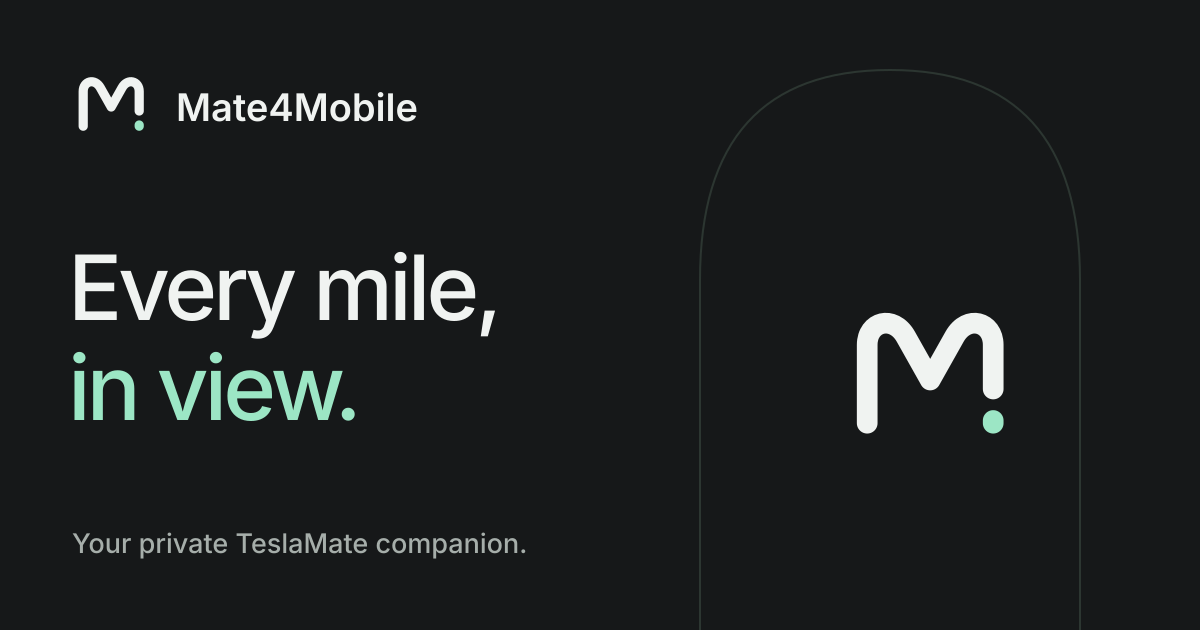
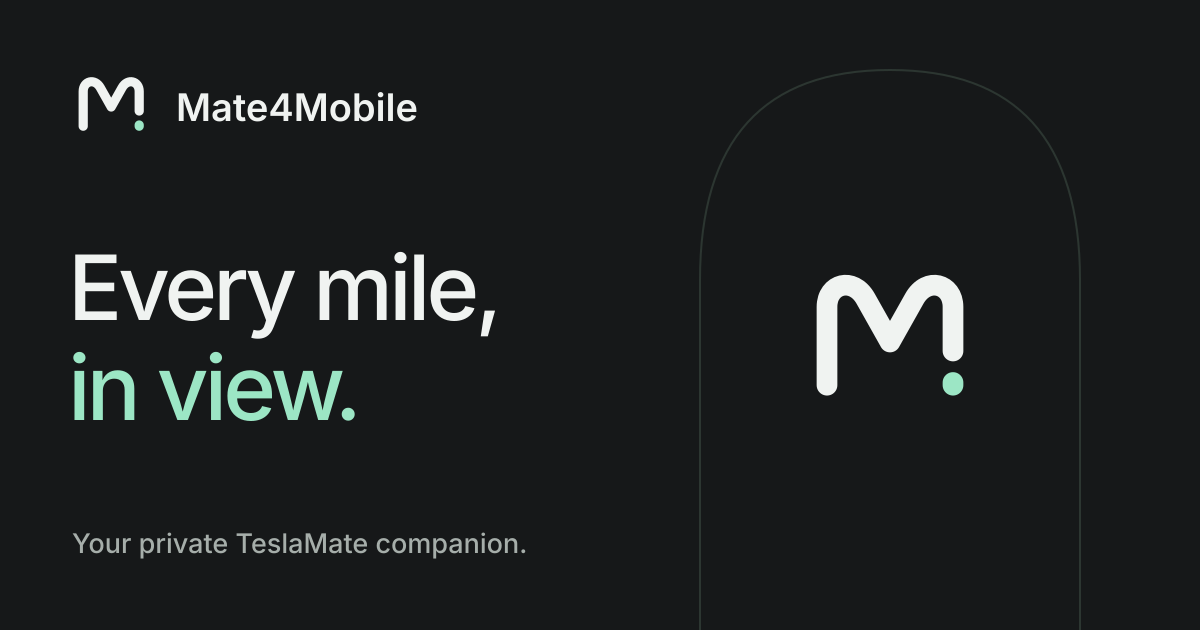
♻ 📝 Polish README layout and fix brand hero

Changed region(s): [[0.6783, 0.4222, 0.8633, 0.6937]]

diff --git a/README.md b/README.md
@@ -1,18 +1,74 @@
-<p align="center"><img src="brand/exports/social-card.png" alt="Mate4Mobile — Every mile, in view." width="100%"></p>
+<div align="center">
 
-<p align="center"><strong>Your private TeslaMate companion.</strong><br>Journeys, charging and battery history—made for your phone.</p>
+<img src="brand/exports/social-card.png" alt="Mate4Mobile — Every mile, in view." width="100%">
 
-<p align="center"><a href="https://itchyparrot53.github.io/mate4mobile/">Website</a> · <a href="https://itchyparrot53.github.io/mate4mobile/demo/">Try the demo</a> · <a href="docs/INSTALL.md">Install</a> · <a href="docs/HTTPS.md">HTTPS & PWA</a> · <a href="brand/README.md">Brand kit</a></p>
+**Your private TeslaMate companion.**<br>
+Journeys, charging and battery history. Made for your phone.
+
+[![Last commit](https://img.shields.io/github/last-commit/itchyparrot53/mate4mobile?style=for-the-badge&color=9ce6c5&labelColor=202223&logo=github&logoColor=white)](https://github.com/itchyparrot53/mate4mobile/commits/main/)
+[![Issues](https://img.shields.io/github/issues/itchyparrot53/mate4mobile?style=for-the-badge&color=9ce6c5&labelColor=202223&logo=github&logoColor=white)](https://github.com/itchyparrot53/mate4mobile/issues)
+[![Stars](https://img.shields.io/github/stars/itchyparrot53/mate4mobile?style=for-the-badge&color=9ce6c5&labelColor=202223&logo=github&logoColor=white)](https://github.com/itchyparrot53/mate4mobile/stargazers)
+
+[![Docker deployment](https://img.shields.io/badge/Docker-Deployment-9ce6c5?style=for-the-badge&labelColor=202223&logo=docker&logoColor=white)](docs/INSTALL.md)
+[![Node.js 22+](https://img.shields.io/badge/Node.js-22%2B-9ce6c5?style=for-the-badge&labelColor=202223&logo=nodedotjs&logoColor=white)](CONTRIBUTING.md)
+[![Code licence: MIT](https://img.shields.io/badge/Code_Licence-MIT-9ce6c5?style=for-the-badge&labelColor=202223)](LICENSE)
+
+[![Website](https://img.shields.io/badge/Website-202223?style=for-the-badge)](https://itchyparrot53.github.io/mate4mobile/)
+[![Try the demo](https://img.shields.io/badge/Try_the_Demo-9ce6c5?style=for-the-badge)](https://itchyparrot53.github.io/mate4mobile/demo/)
+[![Installation guide](https://img.shields.io/badge/Installation_Guide-202223?style=for-the-badge)](docs/INSTALL.md)
+
+[Features](#features) · [Screenshots](#screenshots) · [Getting started](#getting-started) · [FAQ](#faq) · [Documentation](#documentation)
+
+</div>
 
 ---
 
+## ⚡ What is Mate4Mobile?
+
 TeslaMate records the story of your car. **Mate4Mobile makes it easy to read.**
 
-Open it for a quick battery check. Scroll through your day. Follow a journey on the map or see what a charge actually added. A restrained dark interface, large readings and touch-friendly charts keep the useful information close.
+Check the latest recorded battery level, scroll through your day, follow a journey on the map or see what a charge actually added. A restrained dark interface, large readings and touch-friendly charts keep the useful information close on your phone and desktop.
 
-Mate4Mobile is a separate, self-hosted viewer for your existing TeslaMate database. It does not replace TeslaMate, collect telemetry, connect to Tesla’s API or send vehicle commands.
+Mate4Mobile is a **self-hosted, read-only viewer** for your existing TeslaMate database. TeslaMate keeps collecting your data; Mate4Mobile gives it a home on your phone. No Tesla API connection, vehicle commands or additional telemetry collection.
 
-## A better daily view
+---
+
+<a id="screenshots"></a>
+
+## 📱 A dashboard for every day
+
+<p align="center">
+  <img src="docs/images/app-mobile.jpg" alt="Vehicle overview showing the Tesla render, battery level and daily summary with synthetic data" width="280">
+  <img src="docs/images/charging-mobile.jpg" alt="Charging overview with energy trends and location breakdowns using synthetic data" width="280">
+</p>
+
+<p align="center"><strong>A quick check before you leave. A clearer picture when you get back.</strong></p>
+
+<details>
+<summary><strong>🖥 Explore the desktop view</strong></summary>
+
+Follow a recorded journey with a route map and linked speed, power and battery charts.
+
+![Journey map and linked telemetry chart using synthetic data](docs/images/journey-desktop.jpg)
+
+</details>
+
+<details>
+<summary><strong>🌐 Preview the project website</strong></summary>
+
+![Mate4Mobile showcase website](docs/images/website-desktop.jpg)
+
+</details>
+
+*Screenshots and the public demo use invented data. Vehicle renders © Tesla, Inc. and/or their respective owners; used for identification and illustration. See [LEGAL.md](LEGAL.md).*
+
+**[Try the interactive demo →](https://itchyparrot53.github.io/mate4mobile/demo/)** No server, sign-in or vehicle connection needed.
+
+---
+
+<a id="features"></a>
+
+## ✨ Features
 
 | View | What you get |
 | --- | --- |
@@ -23,23 +79,20 @@ Mate4Mobile is a separate, self-hosted viewer for your existing TeslaMate databa
 | **Energy** | Driving totals and clearly labelled battery estimates that build context as your history grows. |
 | **Every screen** | Responsive desktop layouts, mobile sheets, keyboard navigation, reduced-motion support and an installable PWA shell. |
 
-<p align="center"><img src="docs/images/app-mobile.jpg" alt="Mate4Mobile vehicle overview with synthetic data" width="280"> <img src="docs/images/charging-mobile.jpg" alt="Mate4Mobile charging screen with synthetic data" width="280"></p>
+---
 
-*Screenshots and the public demo use invented data. Vehicle renders © Tesla, Inc. and/or their respective owners; used for identification and illustration. See [LEGAL.md](LEGAL.md).*
+<a id="getting-started"></a>
 
-<details><summary><strong>A closer look on desktop</strong></summary>
+## 🚀 Getting started
 
-![Journey map and linked telemetry chart using synthetic data](docs/images/journey-desktop.jpg)
+### Before you start
 
-</details>
+- An existing **TeslaMate installation with PostgreSQL**.
+- A **Linux Docker host with Compose v2**, plus `git`, `bash` and `openssl`.
+- Access to the database owner for one-time reader setup.
+- A **private HTTPS address** for secure sign-in and Home Screen installation.
 
-## Start with the demo
-
-**[Explore Mate4Mobile](https://itchyparrot53.github.io/mate4mobile/demo/)** without a server, sign-in or vehicle connection. It runs the app interface against synthetic readings. Nothing in the demo can reach your car or database.
-
-## Install alongside TeslaMate
-
-You need an existing TeslaMate PostgreSQL database, a Linux Docker host with Compose v2, `git`, `bash` and `openssl`, and a private HTTPS address for phone installation.
+### Docker setup
 
 ```bash
 git clone https://github.com/itchyparrot53/mate4mobile.git
@@ -53,7 +106,8 @@ The app initially listens on **host loopback port 8099**. Add your HTTPS reverse
 
 **[Complete installation guide](docs/INSTALL.md)** · **[HTTPS and Home Screen setup](docs/HTTPS.md)** · **[Native Node/systemd installation](docs/NATIVE.md)**
 
-Already know your container names?
+<details>
+<summary><strong>⚙ Setup with explicit container and network names</strong></summary>
 
 ```bash
 bash scripts/setup.sh \
@@ -66,7 +120,21 @@ bash scripts/setup.sh \
 
 Replace the example container and network names with yours. Setup refuses to overwrite an existing `.env` or take over an existing database role. Existing installations should use the [upgrade guide](docs/OPERATIONS.md).
 
-## How it fits
+</details>
+
+<details>
+<summary><strong>🛠 Install without Docker</strong></summary>
+
+Use the [native Node/systemd guide](docs/NATIVE.md) for an existing Linux host. It covers a dedicated app user, restricted database credentials, the service unit and a private HTTPS reverse proxy.
+
+</details>
+
+> **Already installed?** Follow the [upgrade guide](docs/OPERATIONS.md). The setup script is for a new installation and deliberately refuses to overwrite an existing `.env` or database role.
+
+
+---
+
+## 🔗 How it fits
 
 ```mermaid
 flowchart LR
@@ -79,7 +147,9 @@ flowchart LR
 
 **GitHub Pages hosts the showcase and synthetic demo only.** Your private dashboard runs on your own server; no GitHub workflow connects to your database.
 
-## Private by design, precise about the data
+---
+
+## 🔒 Privacy & data
 
 - The installer grants `SELECT` on ten named telemetry/configuration tables. It does **not** grant access to TeslaMate’s `tokens` table, all tables or future tables.
 - The backend uses read-only database transactions. The doctor checks effective grants, including privileges inherited through `PUBLIC`.
@@ -90,13 +160,84 @@ flowchart LR
 
 Read the [security model](SECURITY.md), [data guide](docs/DATA.md) and [architecture](docs/ARCHITECTURE.md).
 
-## Make it yours
+---
+
+## 🎨 Make it yours
 
 Choose a vehicle family, generation and paint in Preferences. Seven model/generation presets and 39 colour choices use the same Tesla renders as the app. Year ranges and representative trims are guides, not exact VIN configurations. Preferences and distance units stay on the device.
 
 The [brand kit](brand/README.md) includes SVG masters, light/dark wordmarks, a compact M4M lockup, favicons, maskable PWA icons, Apple touch icons, social artwork, design tokens and usage guidance. The [visual brand board](https://itchyparrot53.github.io/mate4mobile/brand/) brings it together.
 
-## Develop locally
+---
+
+<a id="faq"></a>
+
+## 💬 Frequently asked questions
+
+<details>
+<summary><strong>Does this replace TeslaMate or wake the car?</strong></summary>
+
+No. TeslaMate remains your logger. Mate4Mobile reads its PostgreSQL records and does not call Tesla’s API or send commands to the car. Readings are as recent as the data TeslaMate has recorded.
+
+</details>
+
+<details>
+<summary><strong>Does GitHub Pages host my private dashboard?</strong></summary>
+
+No. Pages hosts the public website and a demo with synthetic data. Your dashboard runs on your own server, connected to your database. Publishing this repository does not upload your driving history.
+
+</details>
+
+<details>
+<summary><strong>How do I install it on my phone?</strong></summary>
+
+Open your private HTTPS address in Safari on iPhone or a supported browser on Android, sign in and use Add to Home Screen or Install app. Your phone must trust the HTTPS certificate. Follow the [HTTPS and PWA guide](docs/HTTPS.md) for the full setup.
+
+</details>
+
+<details>
+<summary><strong>Can I choose my model and paint colour?</strong></summary>
+
+Yes. Preferences includes seven model/generation presets and 39 colour choices. These are representative vehicle renders, not exact VIN configurations. Your selection stays on your device.
+
+</details>
+
+<details>
+<summary><strong>Does it work offline?</strong></summary>
+
+The installed shell and selected illustrations can load offline. Fresh readings require access to your server; private API responses are not stored in the service worker cache. An already-open page may retain its current readings in memory.
+
+</details>
+
+<details>
+<summary><strong>Why are some costs or battery figures missing?</strong></summary>
+
+The app keeps missing data visible rather than treating it as zero. Recorded charging costs are separate from estimates using your current tariff, and battery capacity and full-range figures are estimates. More driving and charging history gives them context. See the [data guide](docs/DATA.md).
+
+</details>
+
+---
+
+<a id="documentation"></a>
+
+## 📚 Documentation
+
+| Guide | What it covers |
+| --- | --- |
+| [Installation](docs/INSTALL.md) · [Native installation](docs/NATIVE.md) | Add Mate4Mobile to an existing deployment. |
+| [HTTPS & PWA](docs/HTTPS.md) | Private access, certificates and Home Screen installation. |
+| [Configuration](docs/CONFIGURATION.md) | Environment variables and deployment options. |
+| [Troubleshooting](docs/TROUBLESHOOTING.md) | Diagnose startup, database and connection issues. |
+| [Operations](docs/OPERATIONS.md) | Upgrades, backups and removal. |
+| [Data guide](docs/DATA.md) · [Architecture](docs/ARCHITECTURE.md) | Understand the readings and how the app works. |
+| [Security](SECURITY.md) | Access controls, privacy and vulnerability reporting. |
+| [Publishing](docs/PUBLISHING.md) | GitHub Desktop and GitHub Pages setup. |
+| [Brand kit](brand/README.md) | Logos, icons, colours and usage guidance. |
+| [Release checklist](docs/RELEASE.md) · [Changelog](CHANGELOG.md) | Validation record and release history. |
+
+---
+
+## 🧑💻 Development
 
 Node **22 or newer** is required; the container uses Node 24 LTS. The app is plain JavaScript and Node HTTP with PostgreSQL—no frontend framework or production build step.
 
@@ -109,6 +250,9 @@ npm run preview
 
 Open `http://localhost:4173/mate4mobile/` for the website and demo. A database is not needed for these commands. For the private app, supply your own restricted database credentials as described in [CONTRIBUTING.md](CONTRIBUTING.md).
 
+<details>
+<summary><strong>⌨ All development commands</strong></summary>
+
 | Command | Purpose |
 | --- | --- |
 | `npm start` | Start the private app; environment variables must be loaded. |
@@ -120,22 +264,21 @@ Open `http://localhost:4173/mate4mobile/` for the website and demo. A database i
 | `npm run test:install` | Test the installer and image with disposable Docker PostgreSQL. |
 | `npm run doctor` | Read-only database configuration and privilege checks. |
 
-## Documentation
+</details>
 
-- [Installation](docs/INSTALL.md), [native installation](docs/NATIVE.md) and [HTTPS/PWA](docs/HTTPS.md)
-- [Configuration reference](docs/CONFIGURATION.md) and [troubleshooting](docs/TROUBLESHOOTING.md)
-- [Upgrades, backups and removal](docs/OPERATIONS.md)
-- [Data definitions and limits](docs/DATA.md)
-- [Publishing the repository and GitHub Pages](docs/PUBLISHING.md)
-- [Release checklist](docs/RELEASE.md), [changelog](CHANGELOG.md) and [contributing](CONTRIBUTING.md)
+---
 
-## Project status
+## 🤝 Contributing & project status
 
 An early public release, developed from a running personal installation. The public installer targets the standard single-database TeslaMate Docker layout. Native deployments are documented separately. Review the [validation record](docs/RELEASE.md) for what has actually been tested; unusual database schemas and proxy topologies may need configuration.
 
 Bug reports and focused improvements are welcome. Please use synthetic examples and remove locations, VINs and credentials before sharing an issue.
 
-## Credits and licence
+Start with [CONTRIBUTING.md](CONTRIBUTING.md), [report a bug](https://github.com/itchyparrot53/mate4mobile/issues/new/choose) or open a pull request with a focused improvement.
+
+---
+
+## 🙏 Credits & licence
 
 Made possible by [TeslaMate](https://github.com/teslamate-org/teslamate), [Leaflet](https://leafletjs.com/), [OpenStreetMap](https://www.openstreetmap.org/copyright), [Inter](https://rsms.me/inter/) and [node-postgres](https://node-postgres.com/).
 
